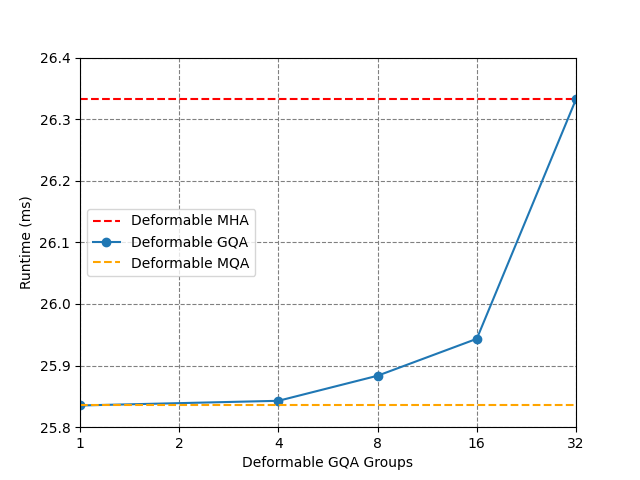
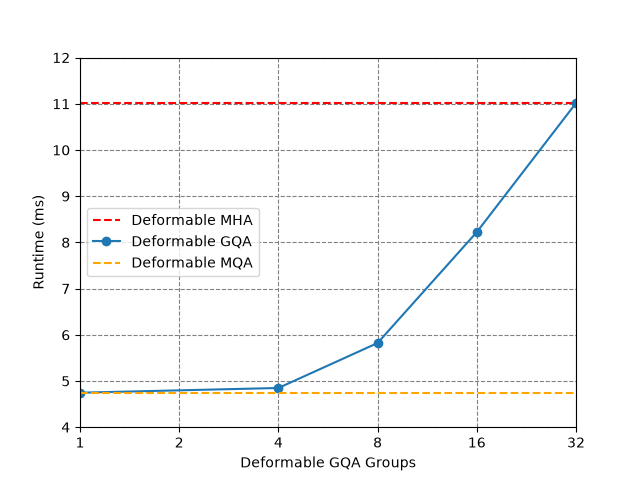
more relevant benchmark parameters

diff --git a/benchmark.py b/benchmark.py
@@ -3,10 +3,10 @@ import torch
 
 from deformable_gqa import DeformableAttention2D
 
-batch_size = 4096
-embedding_dimension = 512
-width = 4
-height = 4
+batch_size = 4
+embedding_dimension = 4096
+width = 2
+height = 2
 x = torch.randn(batch_size, embedding_dimension, width, height, device="cuda")
 
 n_warmups = 60
@@ -18,14 +18,14 @@ for g in groups:
     print(g)
     attn = DeformableAttention2D(
         dim=embedding_dimension,  # feature dimensions
-        dim_head=64,  # dimension per head
+        dim_head=1024,  # dimension per head
         heads=32,  # attention heads
         num_groups=g,
         dropout=0.0,  # dropout
-        downsample_factor=4,  # downsample factor (r in paper)
-        offset_scale=4,  # scale of offset, maximum offset
-        offset_groups=None,  # number of offset groups, should be multiple of heads
-        offset_kernel_size=6,  # offset kernel size
+        downsample_factor=1,  # downsample factor (r in paper)
+        offset_scale=1,  # scale of offset, maximum offset
+        offset_groups=1,  # number of offset groups, should be multiple of heads
+        offset_kernel_size=3,  # offset kernel size
         device="cuda",
     )
 
